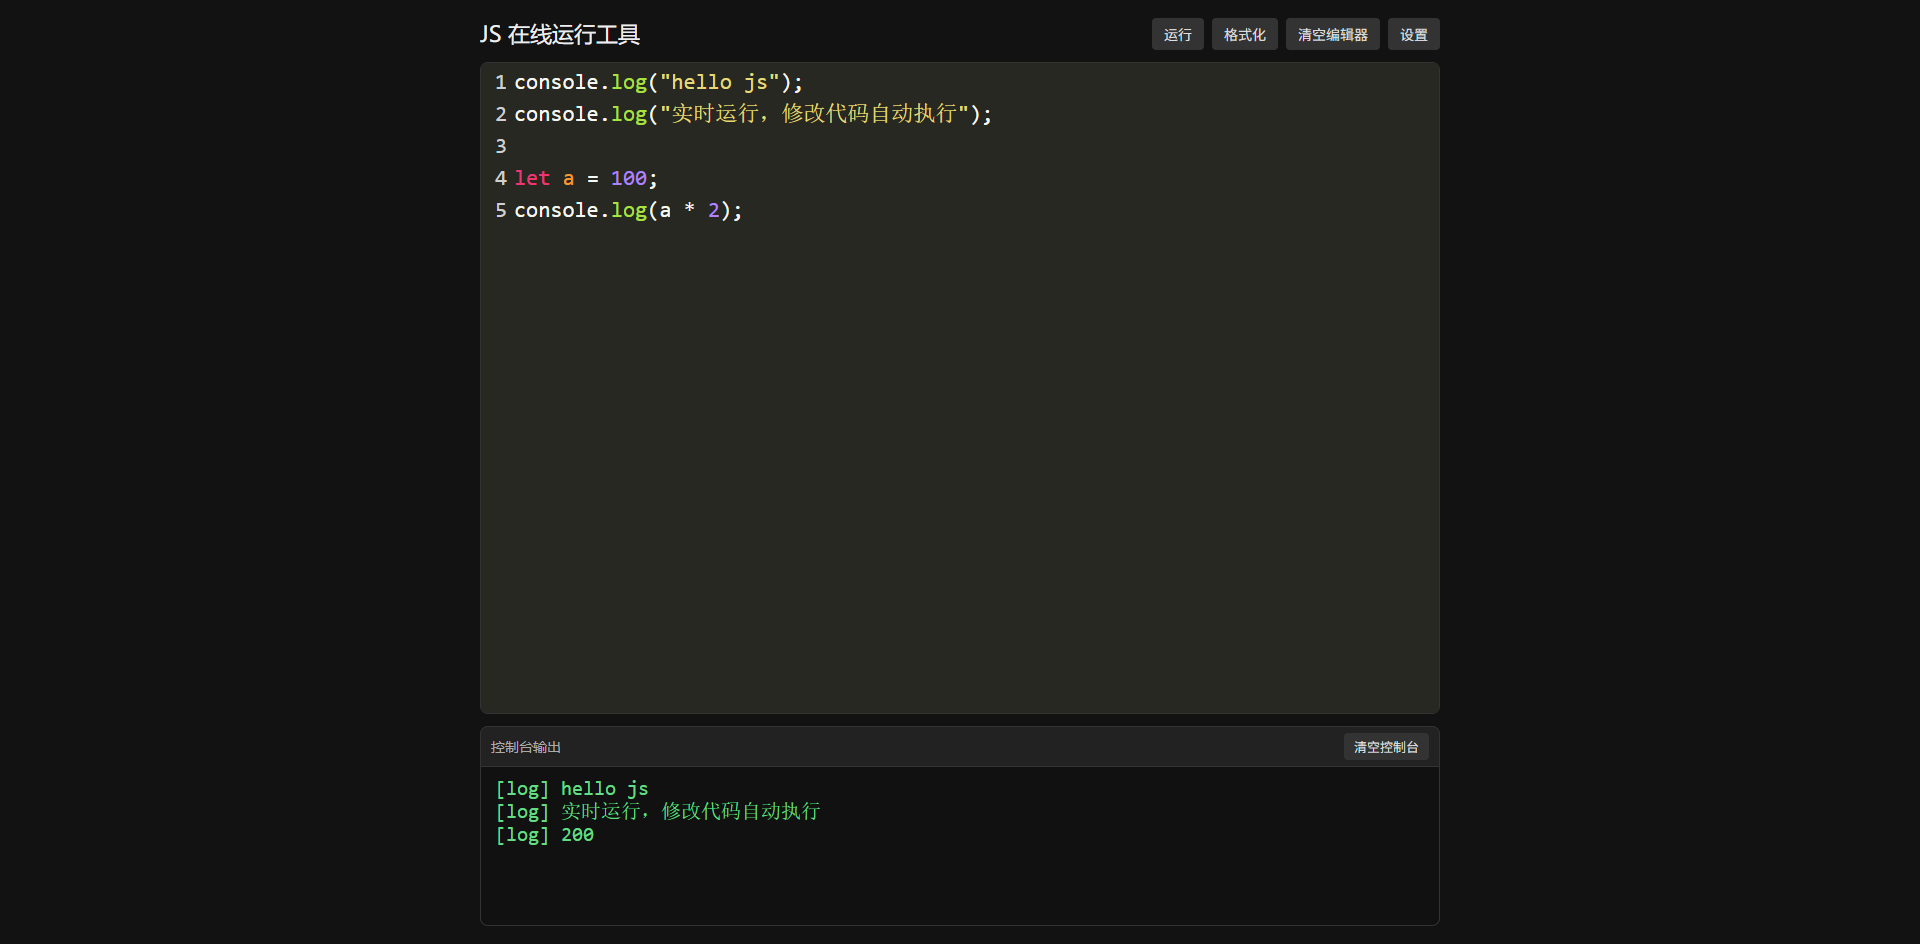
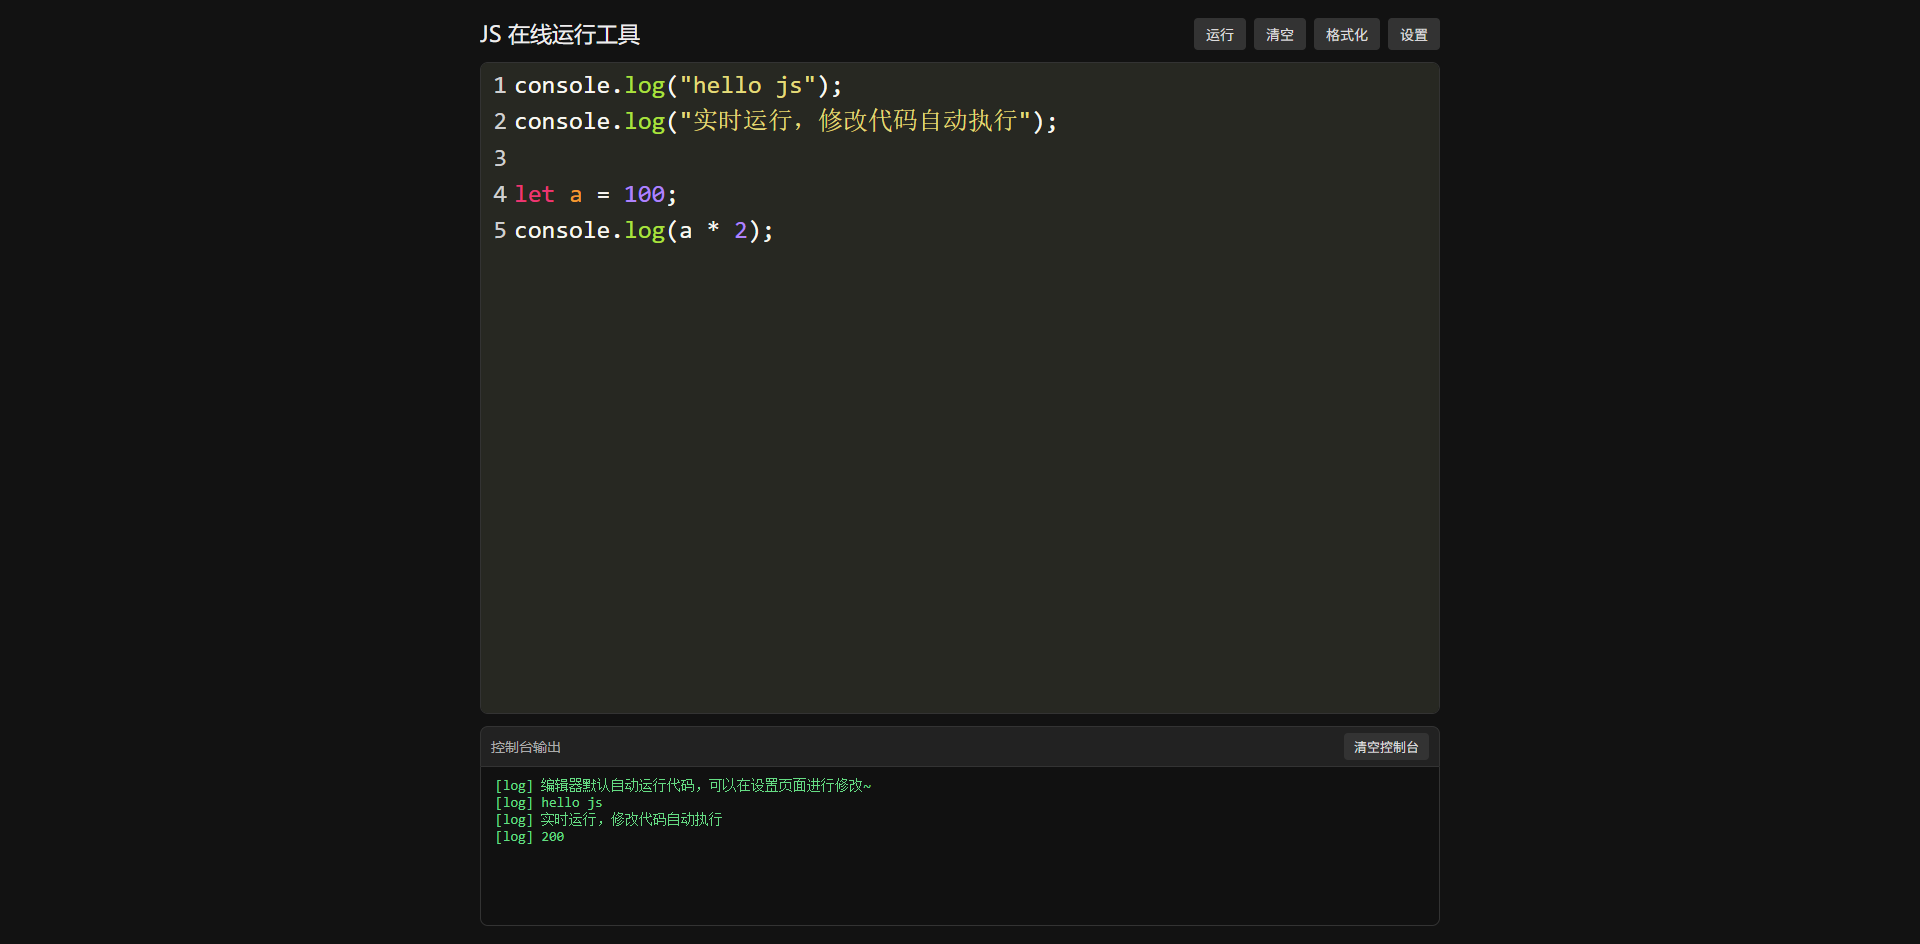
更新README

diff --git a/README.md b/README.md
@@ -25,6 +25,10 @@
 
 <img src="./imgs/2.png" alt="设置页面" style="width:100%"/>
 
+清空弹窗展示：
+
+<img src="./imgs/3.png" alt="清空确定" style="width:100%"/>
+
 ## 📦 技术栈
 
 - CodeMirror 5：代码编辑器
